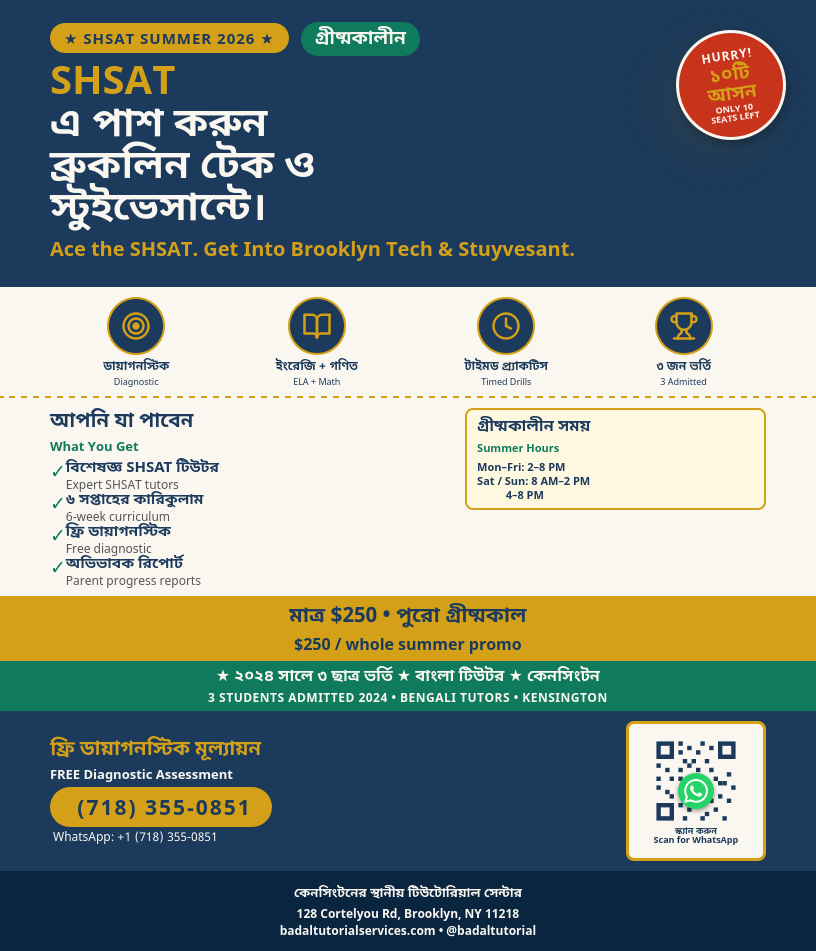
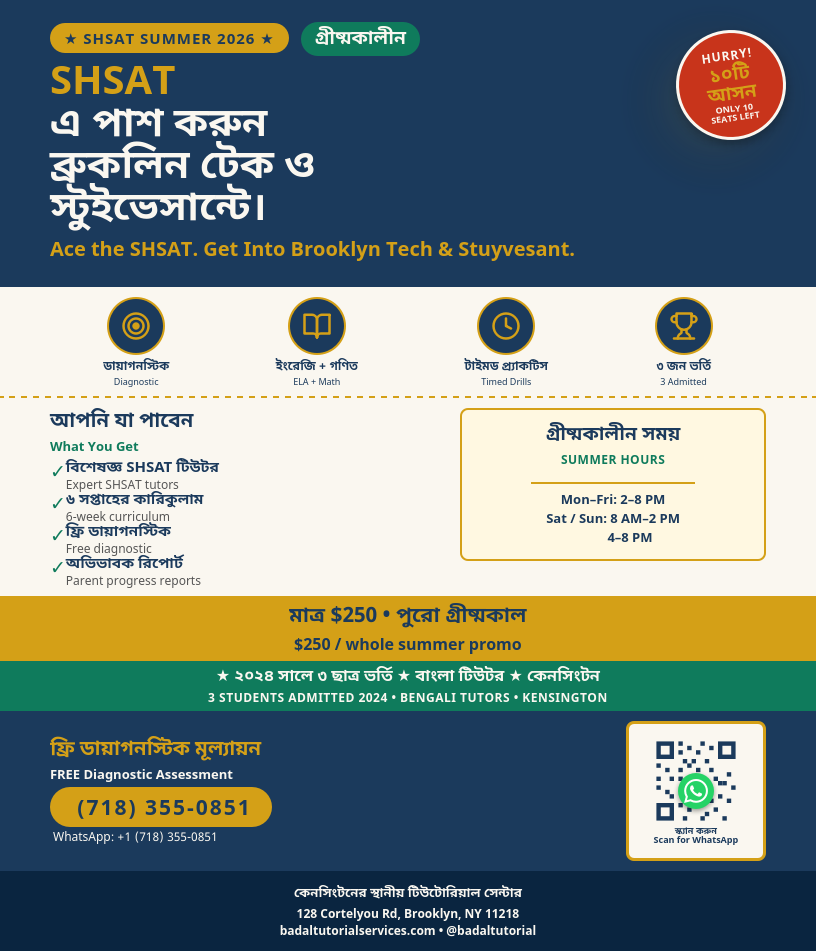
Fix hours card sizing and PNG flush bottom
- Hours card: enlarge text (8pt→10pt rows, 12pt→14pt title), center
  content vertically, add gold divider. Card height 75-111px (was 133),
  text fills 75% of card (was 41%).
- Re-render at flush heights: 984/951/943 (was 985/965/955, leaving
  1-14px cream void below navy footer).
- All 3 PNGs: last pixel = navy (10,37,64), zero cream void.

Changed region(s): [[0.5515, 0.4269, 0.8578, 0.5794]]

diff --git a/flyers/regents-bn.html b/flyers/regents-bn.html
@@ -37,10 +37,11 @@
 
   .body-bn { padding: 8px 50px 6px; background: #FAF7F0; display: flex; gap: 22px; align-items: flex-start; }
   .body-left { flex: 1.2; }
-  .hours-card { flex: 0.8; background: #FFF8E1; border: 2px solid #D4A017; border-radius: 8px; padding: 6px 10px; }
-  .hours-title { font-family: 'BnFont', sans-serif; font-size: 12pt; font-weight: 700; color: #1B3A5C; margin-bottom: 2px; }
-  .hours-title-en { font-family: 'BodySans', sans-serif; font-size: 8pt; font-weight: 700; color: #0F7B5C; margin-bottom: 4px; }
-  .hours-row { font-family: 'BodySans', sans-serif; font-size: 8pt; color: #1B3A5C; line-height: 1.35; font-weight: 700; }
+  .hours-card { flex: 0.8; background: #FFF8E1; border: 2px solid #D4A017; border-radius: 8px; padding: 12px 14px; display: flex; flex-direction: column; justify-content: center; align-items: center; text-align: center; }
+  .hours-title { font-family: 'BnFont', sans-serif; font-size: 14pt; font-weight: 700; color: #1B3A5C; margin-bottom: 3px; }
+  .hours-title-en { font-family: 'BodySans', sans-serif; font-size: 9pt; font-weight: 700; color: #0F7B5C; margin-bottom: 8px; letter-spacing: 0.5px; }
+  .hours-row { font-family: 'BodySans', sans-serif; font-size: 10pt; color: #1B3A5C; line-height: 1.5; font-weight: 700; }
+  .hours-divider { width: 60%; height: 1.5px; background: #D4A017; margin: 6px auto; }
   .hours-row-bn { font-family: 'BnFont', sans-serif; font-weight: 700; color: #1B3A5C; }
   .body-title { font-family: 'BnFont', sans-serif; font-size: 15pt; font-weight: 700; color: #1B3A5C; margin-bottom: 1px; }
   .body-title-en { font-family: 'BodySans', sans-serif; font-size: 10pt; font-weight: 700; color: #0F7B5C; margin-bottom: 5px; }
@@ -179,12 +180,13 @@
     </div>
     <div class="hours-card">
       <div class="hours-title">গ্রীষ্মকালীন সময়</div>
-      <div class="hours-title-en">Summer Hours</div>
+      <div class="hours-title-en">SUMMER HOURS</div>
+      <div class="hours-divider"></div>
       <div class="hours-row">Mon–Fri: 2–8 PM</div>
       <div class="hours-row">Sat / Sun: 8 AM–2 PM</div>
       <div class="hours-row">&nbsp;&nbsp;&nbsp;&nbsp;&nbsp;&nbsp;&nbsp;&nbsp;&nbsp;&nbsp;4–8 PM</div>
-      <div class="hours-row-bn" style="font-size:8pt; margin-top:3px;">সোম–শুক্র: বিকাল ২–৮</div>
-      <div class="hours-row-bn" style="font-size:8pt;">শনি/রবি: সকাল ৮–২ + বিকাল ৪–৮</div>
+      <div class="hours-row-bn" style="font-size:9pt; margin-top:4px;">সোম–শুক্র: বিকাল ২–৮</div>
+      <div class="hours-row-bn" style="font-size:9pt;">শনি/রবি: সকাল ৮–২ + বিকাল ৪–৮</div>
     </div>
   </div>
 

diff --git a/flyers/shsat-bn.html b/flyers/shsat-bn.html
@@ -37,10 +37,11 @@
 
   .body-bn { padding: 10px 50px 8px; background: #FAF7F0; display: flex; gap: 22px; align-items: flex-start; }
   .body-left { flex: 1.2; }
-  .hours-card { flex: 0.8; background: #FFF8E1; border: 2px solid #D4A017; border-radius: 8px; padding: 6px 10px; }
-  .hours-title { font-family: 'BnFont', sans-serif; font-size: 12pt; font-weight: 700; color: #1B3A5C; margin-bottom: 2px; }
-  .hours-title-en { font-family: 'BodySans', sans-serif; font-size: 8pt; font-weight: 700; color: #0F7B5C; margin-bottom: 4px; }
-  .hours-row { font-family: 'BodySans', sans-serif; font-size: 8pt; color: #1B3A5C; line-height: 1.35; font-weight: 700; }
+  .hours-card { flex: 0.8; background: #FFF8E1; border: 2px solid #D4A017; border-radius: 8px; padding: 12px 14px; display: flex; flex-direction: column; justify-content: center; align-items: center; text-align: center; }
+  .hours-title { font-family: 'BnFont', sans-serif; font-size: 14pt; font-weight: 700; color: #1B3A5C; margin-bottom: 3px; }
+  .hours-title-en { font-family: 'BodySans', sans-serif; font-size: 9pt; font-weight: 700; color: #0F7B5C; margin-bottom: 8px; letter-spacing: 0.5px; }
+  .hours-row { font-family: 'BodySans', sans-serif; font-size: 10pt; color: #1B3A5C; line-height: 1.5; font-weight: 700; }
+  .hours-divider { width: 60%; height: 1.5px; background: #D4A017; margin: 6px auto; }
   .body-title { font-family: 'BnFont', sans-serif; font-size: 15pt; font-weight: 700; color: #1B3A5C; margin-bottom: 1px; }
   .body-title-en { font-family: 'BodySans', sans-serif; font-size: 10pt; font-weight: 700; color: #0F7B5C; margin-bottom: 5px; }
   .body-grid { display: grid; grid-template-columns: 1fr 1fr; gap: 3px 22px; }
@@ -177,7 +178,8 @@
     </div>
     <div class="hours-card">
       <div class="hours-title">গ্রীষ্মকালীন সময়</div>
-      <div class="hours-title-en">Summer Hours</div>
+      <div class="hours-title-en">SUMMER HOURS</div>
+      <div class="hours-divider"></div>
       <div class="hours-row">Mon–Fri: 2–8 PM</div>
       <div class="hours-row">Sat / Sun: 8 AM–2 PM</div>
       <div class="hours-row">&nbsp;&nbsp;&nbsp;&nbsp;&nbsp;&nbsp;&nbsp;&nbsp;&nbsp;&nbsp;4–8 PM</div>

diff --git a/flyers/esl-bn.html b/flyers/esl-bn.html
@@ -38,10 +38,11 @@
 
   .body-bn { padding: 4px 50px 4px; background: #FAF7F0; display: flex; gap: 22px; align-items: flex-start; }
   .body-left { flex: 1.2; }
-  .hours-card { flex: 0.8; background: #FFF8E1; border: 2px solid #D4A017; border-radius: 8px; padding: 6px 10px; }
-  .hours-title { font-family: 'BnFont', sans-serif; font-size: 12pt; font-weight: 700; color: #1B3A5C; margin-bottom: 2px; }
-  .hours-title-en { font-family: 'BodySans', sans-serif; font-size: 8pt; font-weight: 700; color: #0F7B5C; margin-bottom: 4px; }
-  .hours-row { font-family: 'BodySans', sans-serif; font-size: 8pt; color: #1B3A5C; line-height: 1.35; font-weight: 700; }
+  .hours-card { flex: 0.8; background: #FFF8E1; border: 2px solid #D4A017; border-radius: 8px; padding: 12px 14px; display: flex; flex-direction: column; justify-content: center; align-items: center; text-align: center; }
+  .hours-title { font-family: 'BnFont', sans-serif; font-size: 14pt; font-weight: 700; color: #1B3A5C; margin-bottom: 3px; }
+  .hours-title-en { font-family: 'BodySans', sans-serif; font-size: 9pt; font-weight: 700; color: #0F7B5C; margin-bottom: 8px; letter-spacing: 0.5px; }
+  .hours-row { font-family: 'BodySans', sans-serif; font-size: 10pt; color: #1B3A5C; line-height: 1.5; font-weight: 700; }
+  .hours-divider { width: 60%; height: 1.5px; background: #D4A017; margin: 6px auto; }
   .body-title { font-family: 'BnFont', sans-serif; font-size: 15pt; font-weight: 700; color: #1B3A5C; margin-bottom: 1px; }
   .body-title-en { font-family: 'BodySans', sans-serif; font-size: 10pt; font-weight: 700; color: #0F7B5C; margin-bottom: 5px; }
   .body-grid { display: grid; grid-template-columns: 1fr 1fr; gap: 3px 22px; }
@@ -175,7 +176,8 @@
     </div>
     <div class="hours-card">
       <div class="hours-title">গ্রীষ্মকালীন সময়</div>
-      <div class="hours-title-en">Summer Hours</div>
+      <div class="hours-title-en">SUMMER HOURS</div>
+      <div class="hours-divider"></div>
       <div class="hours-row">Mon–Fri: 2–8 PM</div>
       <div class="hours-row">Sat / Sun: 8 AM–2 PM</div>
       <div class="hours-row">&nbsp;&nbsp;&nbsp;&nbsp;&nbsp;&nbsp;&nbsp;&nbsp;&nbsp;&nbsp;4–8 PM</div>

diff --git a/flyers/README.md b/flyers/README.md
@@ -11,9 +11,9 @@ Bengali-led marketing flyers for Badal Tutorial. 8.5×9.4in print spec.
 ## Render
 
 ```bash
-wkhtmltoimage --width 816 --height 902 --quality 85 \
+wkhtmltoimage --width 816 --height 984 --quality 85 \
   --enable-local-file-access --javascript-delay 500 \
-  --no-stop-slow-scripts file://./regents-bn.html ./regents-bn.png
+  --no-stop-slow-scripts file://./regents-bn.html ./regents-bn.png   # H=951 for SHSAT, H=943 for ESL
 ```
 
 ## Stack
